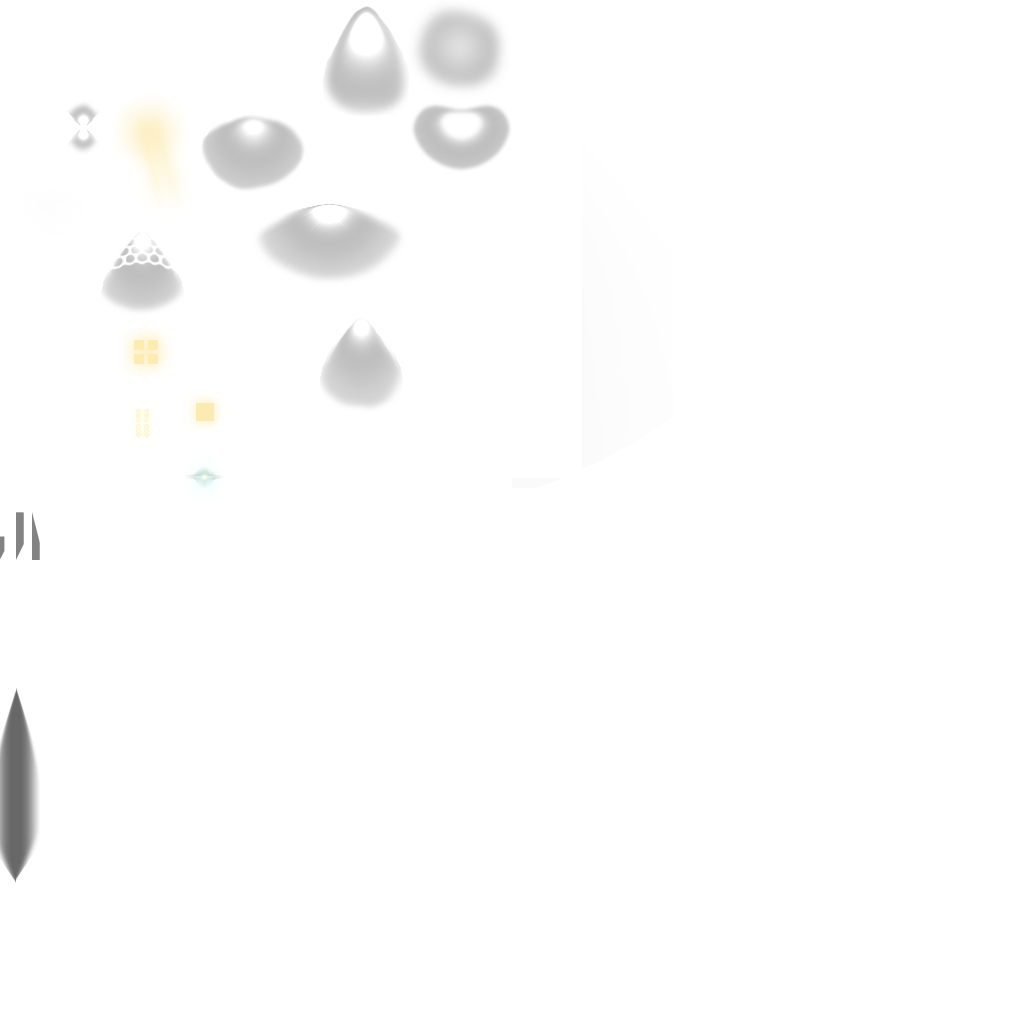
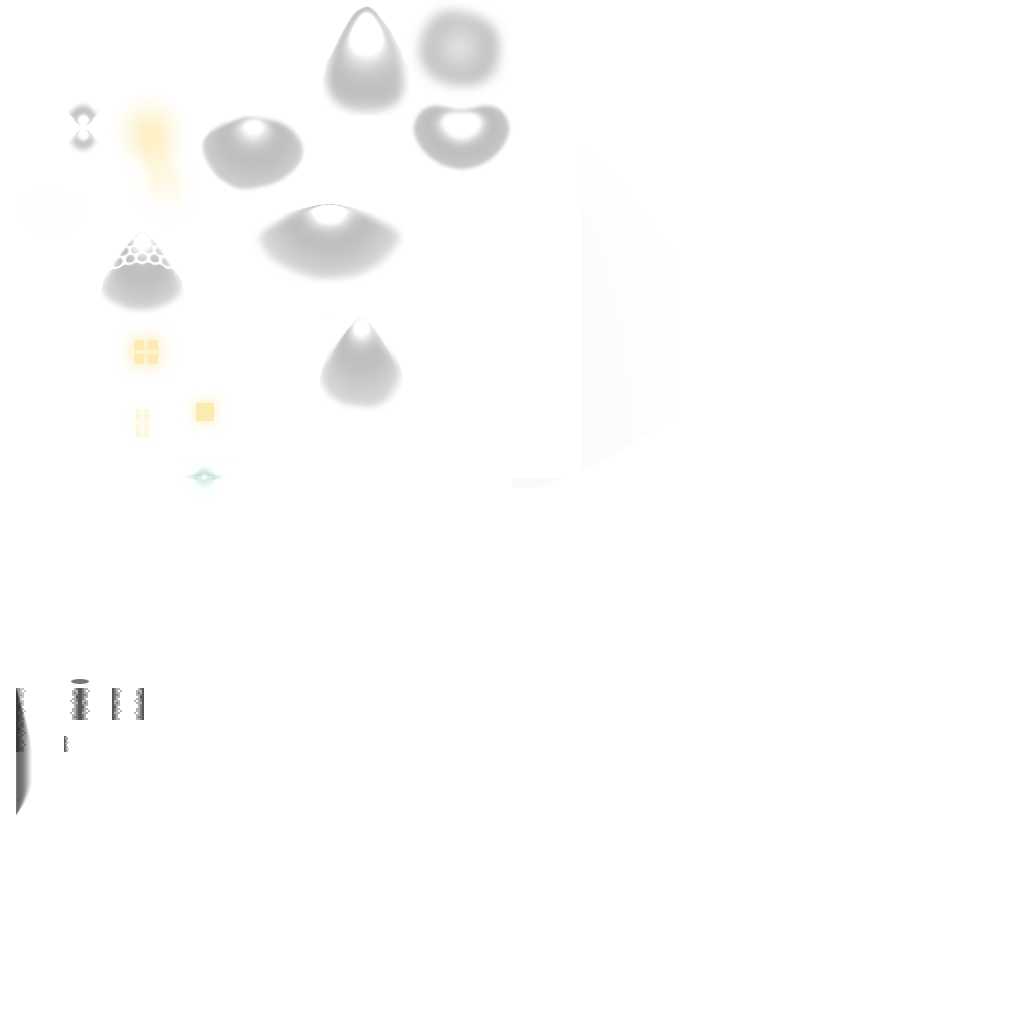
added corner shadows and character shadows

Changed region(s): [[0.0, 0.6562, 0.0625, 0.875], [0.0625, 0.6562, 0.1562, 0.7188], [0.0, 0.5, 0.0625, 0.5625]]

diff --git a/BreacherSquad/Source/Engine/Level.cpp b/BreacherSquad/Source/Engine/Level.cpp
@@ -402,7 +402,7 @@ void CLevel::UpdateDirtyRects()
 					if ( ( tl->flags & K_TILEFLAG_WALKABLE ) == 0 )
 					{
 						// clear flags
-						FLAGOP_CLEAR( tl->flags, K_TILEFLAG_HASWALL_MASK );
+						FLAGOP_CLEAR( tl->flags, K_TILEFLAG_HASWALL_MASK | K_TILEFLAG_WALLENDING_MASK );
 
 						if ( ( tlL ) && ( FLAG_ANY( tlL->flags, K_TILEFLAG_WALKABLE ) ) )
 						{
@@ -422,9 +422,9 @@ void CLevel::UpdateDirtyRects()
 						}
 					}
 					else
-					{	 
+					{
 						///--- process walkable flags ---
-						// corners don't matter for now
+						// corners don't matter for now, we just check immediate neighbours URDL
 						bool bFloorBorder = false;
 						if ( ( tlL ) && ( ( tlL->flags & K_TILEFLAG_WALKABLE ) == 0 ) )
 							bFloorBorder = true;
@@ -440,7 +440,15 @@ void CLevel::UpdateDirtyRects()
 							m_astar.SetNodeFlags( xx, yy, COL_CLEARANCE0 );
 						}
 					}
-
+					// find wall endings
+					if ( FLAG_ANY( tl->flags, K_TILEFLAG_WALL ) )
+					{
+						// check neighbours so we set the wall ending flags
+						if ( ( tlL ) && ( FLAG_NONE( tlL->flags, K_TILEFLAG_WALL ) ) )
+							tl->flags |= K_TILEFLAG_WALLENDING_L;
+						if ( ( tlR ) && ( FLAG_NONE( tlR->flags, K_TILEFLAG_WALL ) ) )
+							tl->flags |= K_TILEFLAG_WALLENDING_R;
+					}
 
 					///--- compute wall shadows
 					// it can only receive if it's a floor or a wall but not a ceiling on that tile
@@ -487,6 +495,26 @@ void CLevel::UpdateDirtyRects()
 						else if ( ( nReceiverH == 2 ) && ( nCasterH > 2 ) )
 						{
 							tl->nShadowFrame = 3; //top of wall shadowed
+						}
+					}
+
+					///--- compute wall ending shadows ---
+					//#TODO: doesn't support right wall endings and both wall endings on already shadowed walls
+					if ( tl->nShadowFrame < 0 )
+					{
+						UINT32 wallends = tl->flags & K_TILEFLAG_WALLENDING_MASK;
+						if ( FLAG_ALL( wallends, K_TILEFLAG_WALLENDING_L | K_TILEFLAG_WALLENDING_R ) )
+						{
+							//both sides thin wall
+							tl->nShadowFrame = 6;
+						}
+						else if ( wallends == K_TILEFLAG_WALLENDING_L )
+						{
+							tl->nShadowFrame = 5;
+						}
+						else if ( wallends == K_TILEFLAG_WALLENDING_R )
+						{
+							tl->nShadowFrame = 4;
 						}
 					}
 				}
@@ -4359,14 +4387,19 @@ OPRESULT CLevel::RenderPass_Lights( Mat* matProj, float fBetweenFramesPercent )
 	///----------------------------------------------------------------------------------
 	/// SHADOWS
 	///----------------------------------------------------------------------------------
-	/*
-	scTexture* pShadowsTex = m_sprLights.GetTextureByAnim( ANM_LIGHTS_SPR_SHADOWS, 0, 0 );
-	if ( pShadowsTex )
-		m_pDevice->SetTexture( 0, pShadowsTex->pTex );
-	//#HINT: UpdateVisibility is optional as it was done in the previous colors render pass
-	//#TODO: should be called only once on update as it will control the activation of areas
-	Areas_PaintLayer( K_AL_WALLSHADOWS );
-	*/
+	//scTexture* pShadowsTex = m_sprLights.GetTextureByAnim( ANM_LIGHTS_SPR_SHADOWS, 0, 0 );
+	//if ( pShadowsTex )
+		//m_pDevice->SetTexture( 0, pShadowsTex->pTex );
+	/// actor shadows
+	for ( int kk = 0; kk < m_visibleList.arrSortedItems.nCount; kk++ )
+	{
+		CVisibleSortable* vis = &m_visibleList.arrSortedItems.m_pData[kk];
+		if ( vis->eType != K_VST_ACTOR )
+			continue;
+		CActor* act = static_cast< CActor* >( vis->pPtr );
+		UTSprite::PaintFModule( &m_sprLights, act->pos.xy, ANM_LIGHTS_SPR_CHAR_SHADOWS, 0, 0 );
+	}
+	__Painter().Flush();
 
 	///----------------------------------------------------------------------------------
 	/// LIGHTS

diff --git a/BreacherSquad/Source/Engine/BufferedPainterQuad.cpp b/BreacherSquad/Source/Engine/BufferedPainterQuad.cpp
@@ -50,7 +50,7 @@ OPRESULT CBufferedPainterQuads::BeginMesh(int &retMeshIdx)
 		retMeshIdx = -1;
 		return OPRESULT(K_OP_FAILED, L"CBufferedPainterQuads:: Too many meshes!", K_SEVERITY_WARNING);
 	}
-	//assert(m_nMeshesCnt < K_BP_MAX_QMESHES_CNT);
+	//_ASSERT(m_nMeshesCnt < K_BP_MAX_QMESHES_CNT);
 	m_bMeshStarted = true;
 
 	//reset mesh data
@@ -64,13 +64,13 @@ OPRESULT CBufferedPainterQuads::BeginMesh(int &retMeshIdx)
 
 OPRESULT CBufferedPainterQuads::AddQuads(_VERTEX_PNCT4T4 *points, int quadsCount)
 {
-	assert(m_nMaxQuadsCnt > 0);
+	_ASSERT(m_nMaxQuadsCnt > 0);
 
 	if (!m_bMeshStarted)
 		return OPRESULT(K_OP_FAILED, L"You have to call BeginMesh() first!", K_SEVERITY_WARNING);
 
 #if defined(_DEBUG) || defined(DEBUG)
-	assert((int)m_nVertexCursor + quadsCount * 4 < m_nMaxQuadsCnt * 4);
+	_ASSERT((int)m_nVertexCursor + quadsCount * 4 < m_nMaxQuadsCnt * 4);
 #endif
 
 	memcpy(&m_verts[m_nVertexCursor], points, sizeof(_VERTEX_PNCT4T4) * 4 * quadsCount);
@@ -196,7 +196,7 @@ const int CBufferedPainterQuads::GetTrisCount(int meshIdx) const
 
 OPRESULT CBufferedPainterQuads::CreateVB()
 {
-	assert(m_nMaxQuadsCnt > 0);
+	_ASSERT(m_nMaxQuadsCnt > 0);
 	if (m_pDevice == nullptr)
 		return OPRESULT(K_OP_INVALIDARGS, L"CBufferedPainterQuads::CreateVB: Device not set!", K_SEVERITY_WARNING);
 
@@ -221,7 +221,7 @@ OPRESULT CBufferedPainterQuads::CreateVB()
 
 OPRESULT CBufferedPainterQuads::CreateIB()
 {
-	assert(m_nMaxQuadsCnt > 0);
+	_ASSERT(m_nMaxQuadsCnt > 0);
 	if (m_pDevice == nullptr)
 		return OPRESULT(K_OP_INVALIDARGS, L"CBufferedPainterQuads::CreateVB: Device not set!", K_SEVERITY_WARNING);
 

diff --git a/BreacherSquad/Source/Engine/gameplay/Tile.h b/BreacherSquad/Source/Engine/gameplay/Tile.h
@@ -43,6 +43,13 @@ enum eEditorLayer {
 #define		K_TILEFLAG_HASWALL_D	8
 #define		K_TILEFLAG_HASWALL_L	16
 #define		K_TILEFLAG_HASWALL_MASK 0x1E
+// flag for tile with wall on it
+#define		K_TILEFLAG_WALL 32
+// wall lateral endings for wall ending shadows (on wall ending marks)
+#define		K_TILEFLAG_WALLENDING_L 64
+#define		K_TILEFLAG_WALLENDING_R 128
+// mask that deletes wall endings
+#define		K_TILEFLAG_WALLENDING_MASK 0xC0
 
 class CTile {						
 public:
@@ -71,8 +78,12 @@ public:
 
 	void PostConstructionInit()
 	{
+		// mark all floor tiles with flags
 		if (tileIDs[K_TILE_LAYER_FLOOR] >= 0)
 			flags |= K_TILEFLAG_WALKABLE;
+		// mark all wall tiles with flags
+		if ( tileIDs[K_TILE_LAYER_WALLS] >= 0 )
+			flags |= K_TILEFLAG_WALL;
 	}
 };
 

diff --git a/BreacherSquad/Source/Engine/Constants/lights_SPR.h b/BreacherSquad/Source/Engine/Constants/lights_SPR.h
@@ -4,9 +4,11 @@
 #define 	ANM_LIGHTS_SPR_IES   1
 #define 	ANM_LIGHTS_SPR_SHADOWS   2
 #define 	ANM_LIGHTS_SPR_TEST_LIGHTS   3
+#define 	ANM_LIGHTS_SPR_CHAR_SHADOWS   4
 
 //Animation names (ID)
 #define 	ANMID_LIGHTS_SPR_PROJECTED_DIR   "PROJECTED_DIR"
 #define 	ANMID_LIGHTS_SPR_IES   "IES"
 #define 	ANMID_LIGHTS_SPR_SHADOWS   "SHADOWS"
 #define 	ANMID_LIGHTS_SPR_TEST_LIGHTS   "TEST_LIGHTS"
+#define 	ANMID_LIGHTS_SPR_CHAR_SHADOWS   "CHAR_SHADOWS"

diff --git a/BreacherSquad/Source/Engine/gameplay/Level_bullets.cpp b/BreacherSquad/Source/Engine/gameplay/Level_bullets.cpp
@@ -308,6 +308,7 @@ void CLevel::UpdateBullets(float dTime)
 
 void CLevel::PaintBullets(eLVLRenderPass pass)
 {
+	//#TODO: only paint visible bullets
 	D3DXMATRIXA16 matbullet;
 
 	//#TODO: only paint visible bullets...
